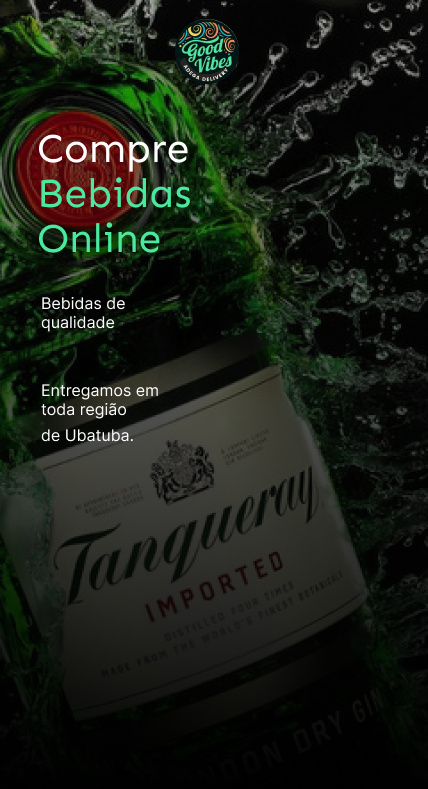
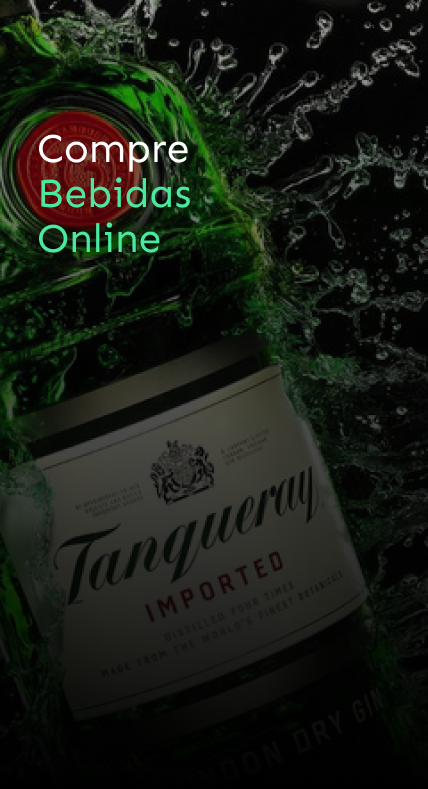
..

Changed region(s): [[0.0911, 0.4867, 0.3645, 0.5779], [0.0911, 0.365, 0.3037, 0.4259], [0.3949, 0.0304, 0.5467, 0.1217]]

diff --git a/index.html b/index.html
@@ -288,7 +288,7 @@
             text-transform: uppercase;
             font-weight: 200;
             ">      
-            Restaurante Kão Kente
+            Good Vibes - Adega Delivery
             </span>
         </div>
 
@@ -381,9 +381,7 @@
               <div class="swiper-slide">
                 <img src="tenquery.png" alt="" >
               </div>
-              <div class="swiper-slide">
-                <img src="skol.png" alt="" >
-              </div>
+              
               <div class="swiper-slide">
                 <img src="salton.png" alt="" >
               </div>
@@ -436,17 +434,17 @@
     </main>
 
     <footer style="display: flex;justify-content: center;opacity: 0.6;text-transform: uppercase;align-items: center;padding: 7px;flex-direction: column;">
-        Restaurante Kão Kente
+      Good Vibes - Adega Delivery
         <span><h6>Desenvolvido por : Digital Harmony</h6></span>
     </footer>
 </body>
 <script src="https://unpkg.com/swiper/swiper-bundle.min.js"></script>
 <script>
     var swiper = new Swiper(".containerMySwiper", {
-        spaceBetween: 30,
+        spaceBetween: 0,
         loop: true,
         autoplay: {
-            delay: 2500,
+            delay: 3500,
             disableOnInteraction: false,
         },
         pagination: {
